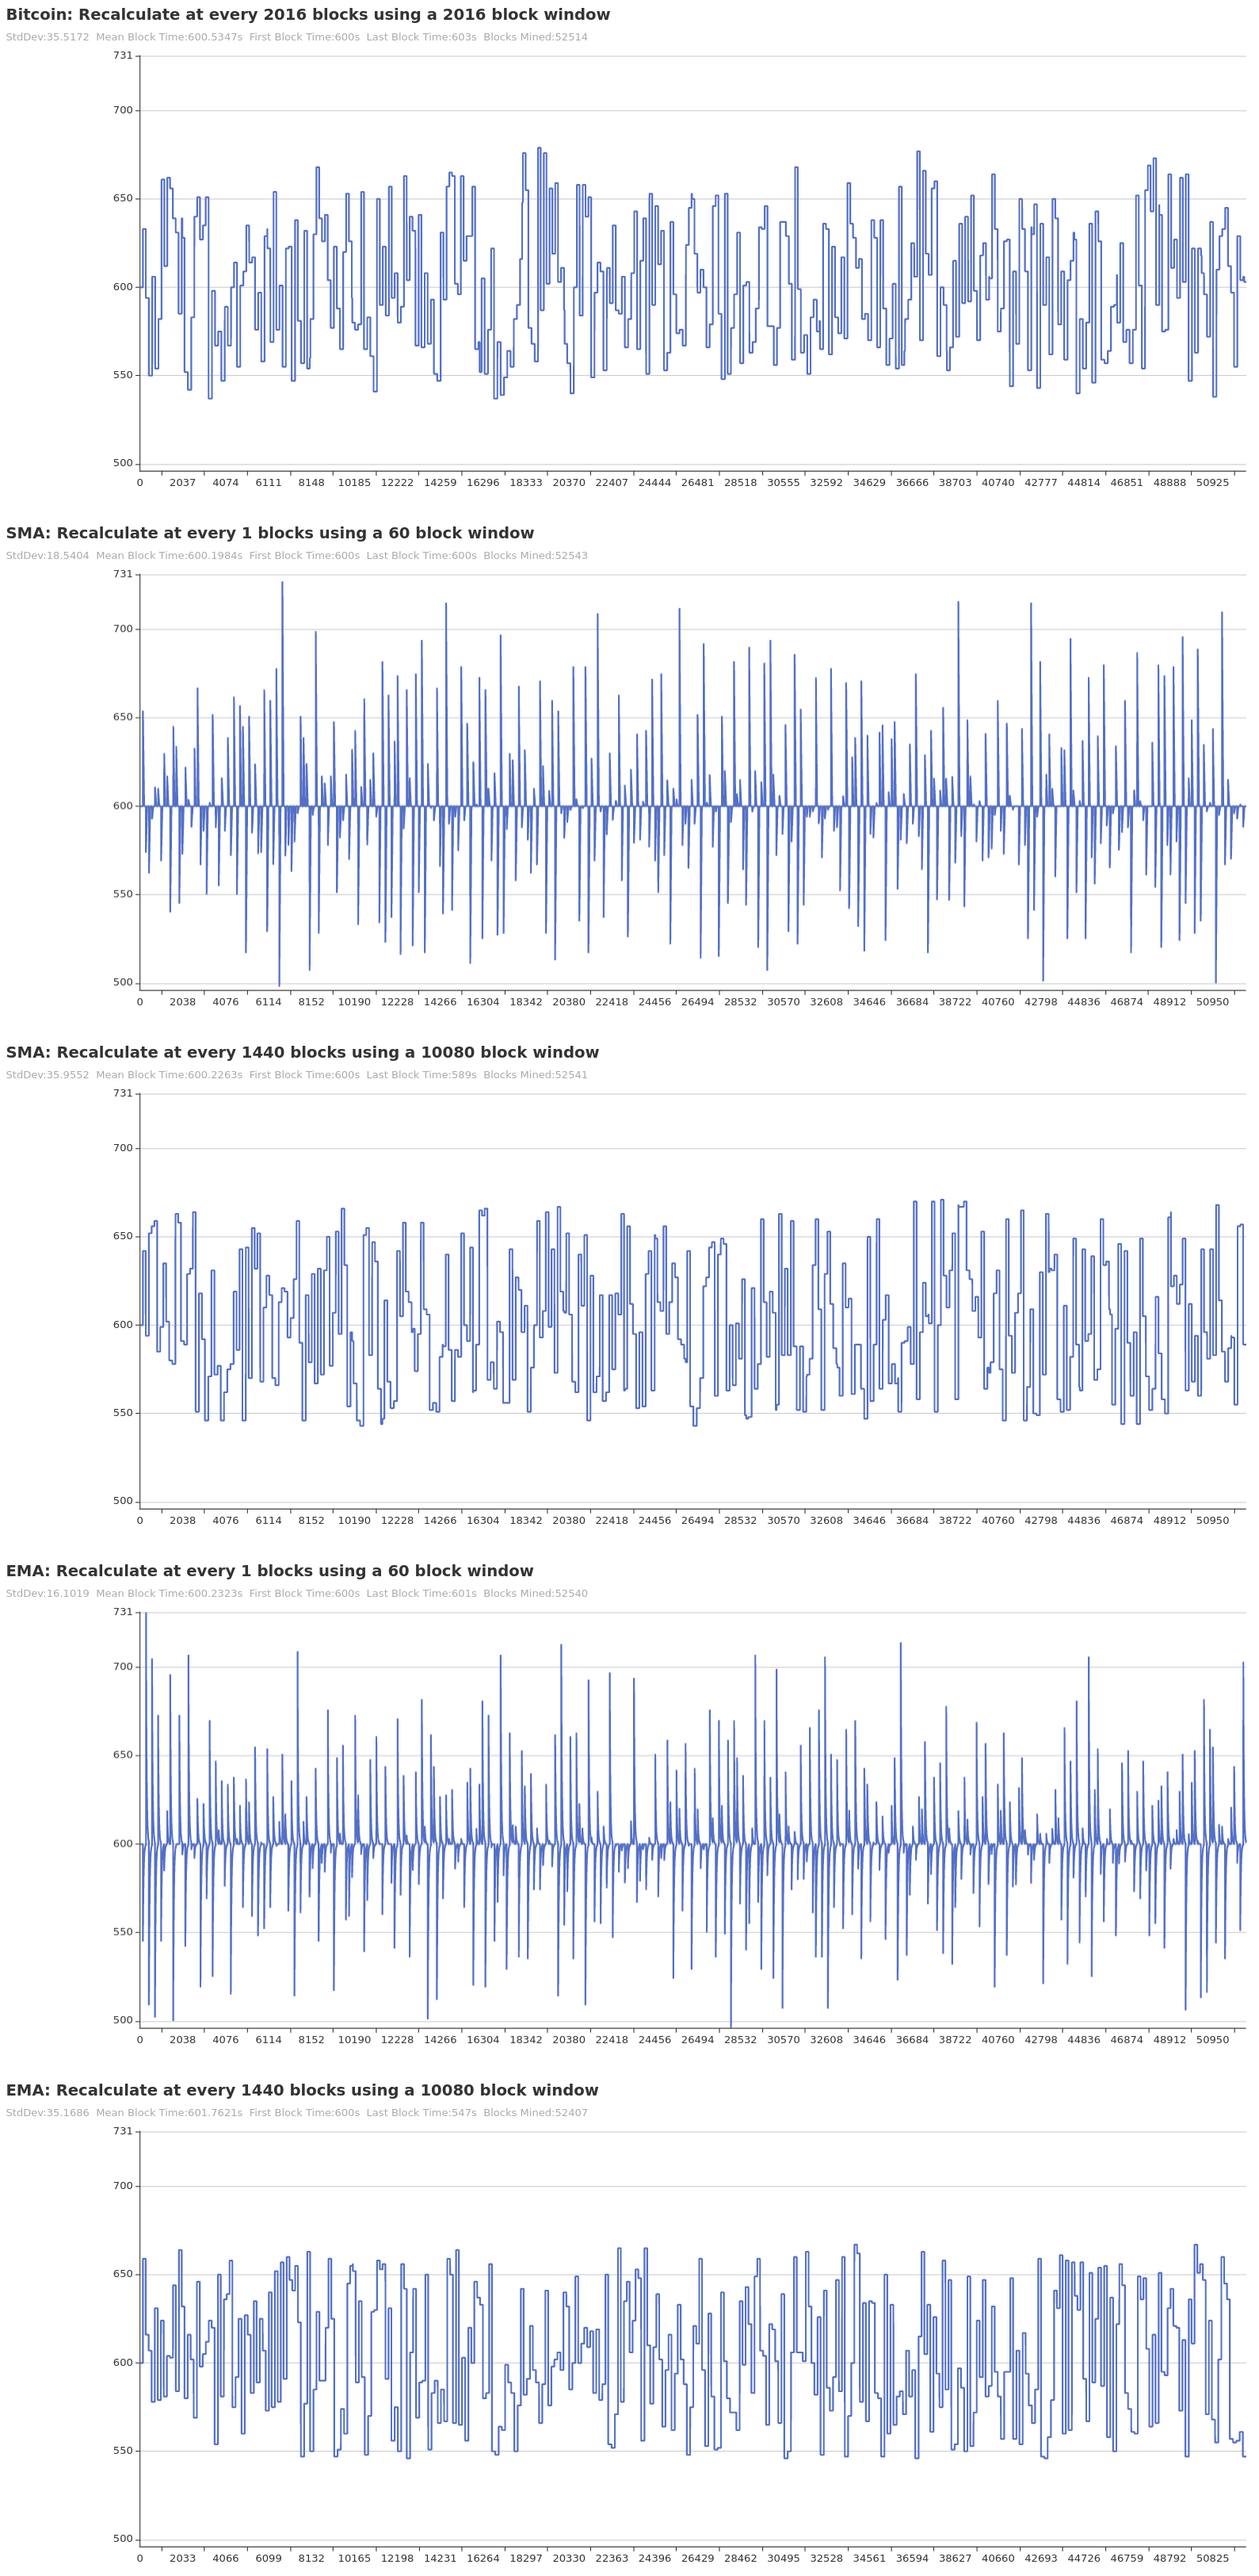
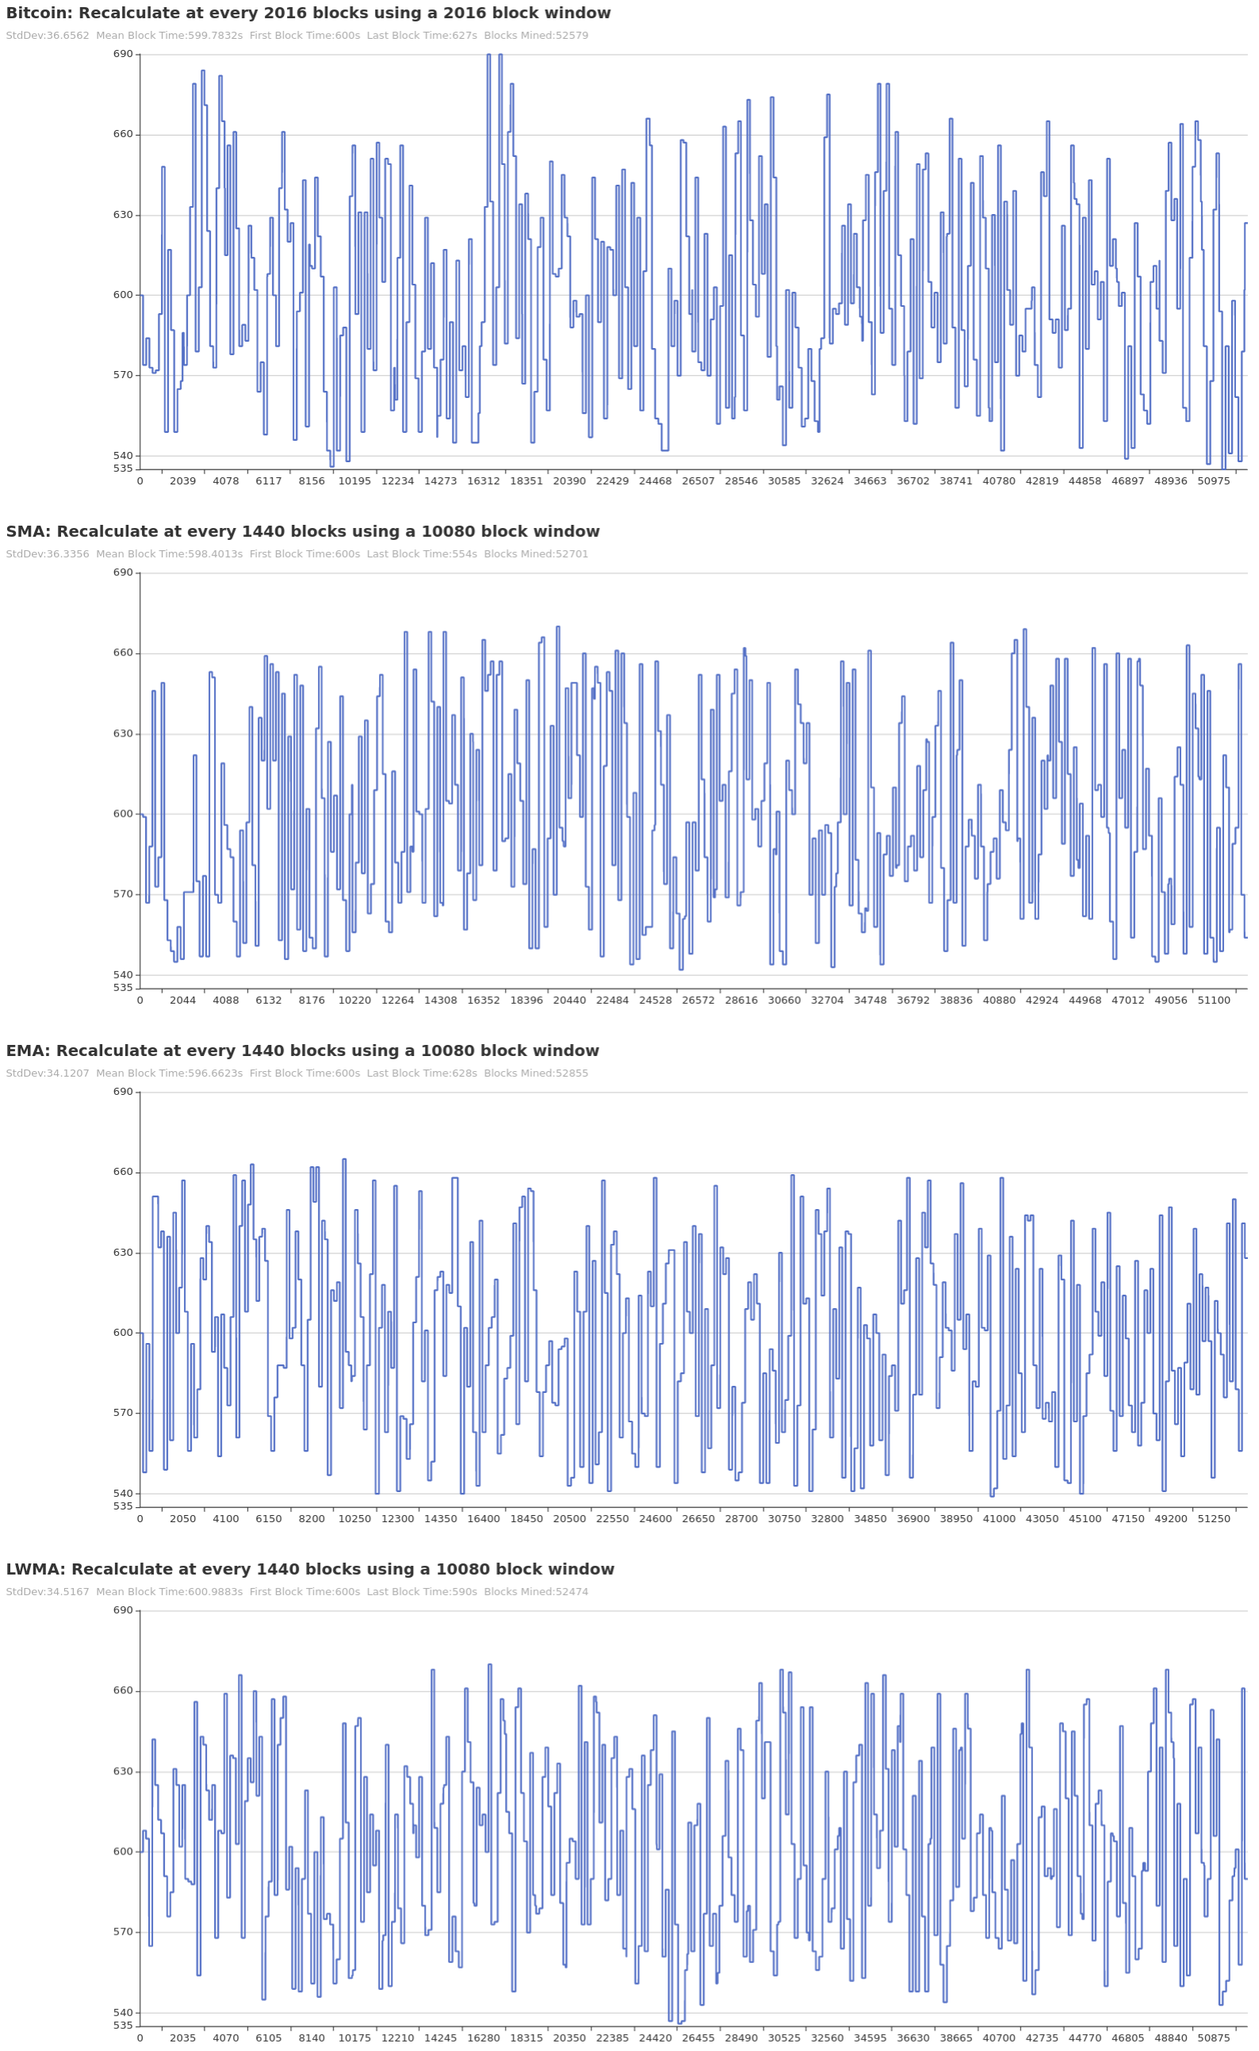
add LWMA algorithm

Changed region(s): [[0.0, 0.0, 1.0, 1.0], [0.0, 0.5876, 0.0309, 0.6185], [0.0, 0.1855, 0.0309, 0.2165]]

diff --git a/algorithms/lwma.go b/algorithms/lwma.go
@@ -1,0 +1,90 @@
+package algorithms
+
+import (
+	"fmt"
+
+	"github.com/mesosoftware/blockchain-difficulty/blockchain"
+	"github.com/mesosoftware/blockchain-difficulty/internal"
+)
+
+// LWMA implements a Linear Weighted Moving Average equation, using the
+// linearly weighted average block time of the most recent X blocks to
+// estimate a more suitable difficulty
+type LWMA struct {
+	name                   string
+	intervalBlocks         int // Frequency of difficulty re-calculation
+	windowBlocks           int // Block data in sample
+	nextRecalculationBlock int
+}
+
+// NewLWMA instantiates and returns a new LWMA
+func NewLWMA(intervalBlocks, windowBlocks int) *LWMA {
+	return &LWMA{
+		name: fmt.Sprintf("LWMA: Recalculate at every %v blocks using a %v block window",
+			intervalBlocks,
+			windowBlocks),
+		intervalBlocks:         intervalBlocks,
+		windowBlocks:           windowBlocks,
+		nextRecalculationBlock: intervalBlocks,
+	}
+}
+
+// Name returns the algorithm name
+func (l *LWMA) Name() string {
+	return l.name
+}
+
+// NextDifficulty calculates the next difficulty
+// We must account for the block time of the current block not yet added
+func (l *LWMA) NextDifficulty(blockchain blockchain.Blockchain, thisBlockTime uint) uint64 {
+	lenBlocks := blockchain.GetLength()
+
+	if lenBlocks == 0 {
+		return blockchain.StartDifficulty
+	}
+
+	// Don't start calculating until we have a complete window (including this block)
+	if lenBlocks < l.windowBlocks-1 {
+		return blockchain.GetLastBlock().NextDifficulty
+	}
+
+	// Only recalculate on the desired interval
+	if lenBlocks < l.nextRecalculationBlock-1 {
+		return blockchain.GetLastBlock().NextDifficulty
+	}
+
+	l.nextRecalculationBlock += l.intervalBlocks
+
+	lwmaD, lwmaBT := l.lwma(blockchain, thisBlockTime)
+
+	return uint64(lwmaD * (float64(internal.Config.TargetBlockTimeSeconds) / lwmaBT))
+}
+
+// lwma calculates the Linear Weighted Moving Averages for Difficulty and BlockTime
+func (l *LWMA) lwma(blockchain blockchain.Blockchain, thisBlockTime uint) (lwmaD, lwmaBT float64) {
+	var sumBT, sumD float64
+
+	i := blockchain.GetLength()                      // Number of last block added (not including This block)
+	j := blockchain.GetLength() - l.windowBlocks + 1 // Number of first block in window
+
+	weight := float64(l.windowBlocks) // Weight starts at window size and decreases to 1
+	sumWeights := float64(0)          // Sum of all Weights
+
+	// Add values from the current block being processed
+	sumBT += float64(thisBlockTime) * weight
+	sumD += float64(blockchain.GetBlock(i).NextDifficulty) * weight
+	sumWeights += weight
+	weight--
+
+	// Add the rest of the values
+	for ; i > j; i-- {
+		sumBT += (float64(blockchain.GetBlock(i).BlockTimeSeconds) * weight)
+		sumD += (float64(blockchain.GetBlock(i).ThisDifficulty) * weight)
+		sumWeights += weight
+		weight--
+	}
+	lwmaBT = sumBT / sumWeights
+	lwmaD = sumD / sumWeights
+
+	return
+}

diff --git a/cmd/main.go b/cmd/main.go
@@ -19,16 +19,14 @@ func main() {
 
 	log.Info("Please wait for results...")
 
-	net0 := network.NewNetwork(600000000, algorithms.NewBTC())
-	net1 := network.NewNetwork(600000000, algorithms.NewSMA(1, 60))
+	net1 := network.NewNetwork(600000000, algorithms.NewBTC())
 	net2 := network.NewNetwork(600000000, algorithms.NewSMA(1440, 10080))
-	net3 := network.NewNetwork(600000000, algorithms.NewEMA(1, 60))
-	net4 := network.NewNetwork(600000000, algorithms.NewEMA(1440, 10080))
+	net3 := network.NewNetwork(600000000, algorithms.NewEMA(1440, 10080))
+	net4 := network.NewNetwork(600000000, algorithms.NewLWMA(1440, 10080))
 
 	ctx := context.Context(context.Background())
 	g, _ := errgroup.WithContext(ctx)
 
-	g.Go(net0.MiningSimulation())
 	g.Go(net1.MiningSimulation())
 	g.Go(net2.MiningSimulation())
 	g.Go(net3.MiningSimulation())
@@ -39,7 +37,7 @@ func main() {
 		return
 	}
 
-	report.PrintResults([]network.Network{net0, net1, net2, net3, net4})
+	report.PrintResults([]network.Network{net1, net2, net3, net4})
 
 	log.Info("All results generated")
 }
